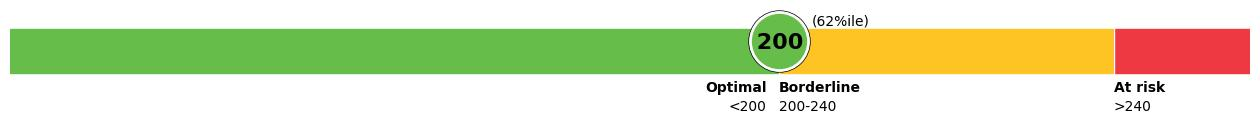
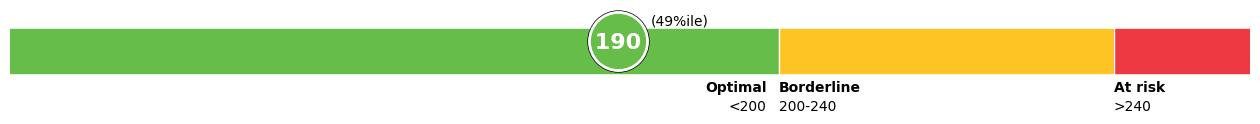
Fix some minor UI changes

Changed region(s): [[0.5881, 0.0726, 0.7119, 0.6048], [0.4643, 0.0726, 0.5571, 0.5806]]

diff --git a/Home.py b/Home.py
@@ -149,34 +149,34 @@ MCQ_FILE = os.path.join(DATA_DIR, 'P_MCQ.XPT')
 SAHC_FILE = os.path.join(SAHC_DATA_DIR, 'merged_data_noPID.csv')
 
 UNITS_MAP = {
-    'LBDHDD': "mg/dL", 'LBDLDL': "mg/dL", 'LBXTC': "mg/dL", 'LBXTR': "mg/dL", 'LBXGH': "%",
-    'LBXGLU': "mg/dL", 'BPXOSY1': "mmHg", 'BPXODI1': "mmHg", 'LBXHGB': "g/dL", 'TotHDLRat': "", 'BMXBMI': ""
+    'LBDHDD': "mg/dl", 'LBDLDL': "mg/dl", 'LBXTC': "mg/dl", 'LBXTR': "mg/dl", 'LBXGH': "%",
+    'LBXGLU': "mg/dl", 'BPXOSY1': "mmHg", 'BPXODI1': "mmHg", 'LBXHGB': "g/dl", 'TotHDLRat': "", 'BMXBMI': ""
 }
 
 
 NAME_MAP = {
     'LBXTC': 'Total Cholesterol', 'LBDLDL': 'LDL', 'LBDHDD': 'HDL', 
-    'LBXTR': 'Triglycerides', 'TotHDLRat': 'Total Cholesterol to HDL Ratio', 
+    'LBXTR': 'Triglycerides', 'TotHDLRat': 'Total Cholesterol to HDL ratio', 
     'LBXGLU': 'Fasting Glucose', 'LBXGH': 'HbA1c',
     'BMXBMI': 'Body Mass Index', 'BPXOSY1': 'Systolic Blood Pressure', 'BPXODI1': 'Diastolic Blood Pressure', 
 }
 
 DROPDOWN_SELECTION = {
     'Total Cholesterol': 'LBXTC', 'LDL': 'LBDLDL', 'HDL': 'LBDHDD',
-    'Triglycerides': 'LBXTR', 'Total Cholesterol to HDL Ratio': 'TotHDLRat',
+    'Triglycerides': 'LBXTR', 'Total Cholesterol to HDL ratio': 'TotHDLRat',
     'Fasting Glucose': 'LBXGLU', 'HbA1c': 'LBXGH',
     'Body Mass Index': 'BMXBMI', 'Systolic Blood Pressure': 'BPXOSY1', 'Diastolic Blood Pressure': 'BPXODI1', 
 }
 
 AHA_RANGES = {
-    'Triglycerides (mg/dL)': ("Optimal", 150, "Borderline", 200, "At risk", None, None),
-    'HDL (mg/dL)': ("At risk", 40, "Optimal", None, None, None, None),
-    'LDL (mg/dL)': ("Optimal", 100, "Borderline", 160, "At risk", None, None),
-    'Total Cholesterol (mg/dL)': ("Optimal", 200, "Borderline", 240, "At risk", None, None),
-    'Fasting Glucose (mg/dL)': ("Optimal", 100, "Borderline", 125, "At risk", None, None),
+    'Triglycerides (mg/dl)': ("Optimal", 150, "Borderline", 200, "At risk", None, None),
+    'HDL (mg/dl)': ("At risk", 40, "Optimal", None, None, None, None),
+    'LDL (mg/dl)': ("Optimal", 100, "Borderline", 160, "At risk", None, None),
+    'Total Cholesterol (mg/dl)': ("Optimal", 200, "Borderline", 240, "At risk", None, None),
+    'Fasting Glucose (mg/dl)': ("Optimal", 100, "Borderline", 125, "At risk", None, None),
     'Systolic Blood Pressure (mmHg)': ("Optimal", 120, "At risk", None, None, None, None),
     'Diastolic Blood Pressure (mmHg)': ("Optimal", 80, "At risk", None, None, None, None),
-    'Total Cholesterol to HDL Ratio ()': ("Optimal", 3.5, "Borderline", 5, "At risk", None, None),
+    'Total Cholesterol to HDL ratio ()': ("Optimal", 3.5, "Borderline", 5, "At risk", None, None),
     'HbA1c (%)': ("Optimal", 5.7, "Borderline", 6.4, "At risk", None, None),
     'Body Mass Index': ("Low", 18.5, "Optimal", 25, "Borderline", 30, "At risk")
 }
@@ -291,7 +291,7 @@ with st.expander(st.session_state.title_expander or expand_label, expanded=True)
         ethnicity = st.selectbox('Ethnicity', ['Non-South Asian', 'South Asian'], key="selected_ethnicity", on_change=update_title, index=None)
     with col4:
         med_options = ['None', 'Cholesterol', 'Diabetes', 'Blood Pressure']
-        medications_select = st.multiselect(label="Select your medication use", options=med_options, key="selected_meds", on_change=update_title)
+        medications_select = st.multiselect(label="Medications controlling", options=med_options, key="selected_meds", on_change=update_title)
 
         medChol = 'No'
         medDiab = 'No'
@@ -531,7 +531,7 @@ def popup(acro, column, user_input, gender, race, age_range, med, on_med, prob, 
             person_label = f"({race} {gender.lower()}, aged between {age_range} years, NOT ON {med}-lowering medication)"
 
     st.write(f"""
-            **Your {column} value compared to others in your peer group**
+            **Your {column} compared to others in your peer group**
             <br>
             {person_label}
             """, unsafe_allow_html=True)
@@ -542,7 +542,7 @@ def popup(acro, column, user_input, gender, race, age_range, med, on_med, prob, 
         <br>
         Risk classification: {status}**
         """, unsafe_allow_html=True)
-    st.write(f"{prop:.0f}% of individuals in your peer group have {column} ≤ {user_input:.1f}")
+    st.write(f"**{prop:.0f}%** of individuals in your peer group have {column} < {user_input:.1f}")
 
     if STEP_SIZE[acro] == 0.1:
         data = pd.DataFrame({
@@ -583,27 +583,27 @@ def popup(acro, column, user_input, gender, race, age_range, med, on_med, prob, 
     st.markdown(html, unsafe_allow_html=True)
 
 
-    if 'Total Cholesterol to HDL' in column or 'Body Mass' in column:
+    if 'Body Mass' in column:
         st.write(f"""
-        According to the AHA guidelines, the **optimal** value for {column} is **{low_number} - {high_number}**.
+        According to AHA guidelines, the **optimal** value for {column} is **{low_number} - {high_number}**.
         <br>
-        In your peer group, the estimated probability of having a sub-optimal {column} of < {low_number} or > {high_number} is {prob:.0f}%.
+        In your peer group, the estimated probability of having a sub-optimal {column} of < {low_number} or > {high_number} is **{prob:.0f}%.**
         """, unsafe_allow_html=True)
-    elif 'HDL' in column:
+    elif 'HDL (mg/dl)' in column:
         st.write(f"""
-            According to the AHA guidelines, the **optimal** value for {column} is ≥ **{low_number}**.
+            According to AHA guidelines, the **optimal** value for {column} is ≥ **{low_number}**.
             <br>
-            In your peer group, the estimated probability of having a sub-optimal {column} of < {low_number} is {prob:.0f}%.
+            In your peer group, the estimated probability of having a sub-optimal {column} of < {low_number} is **{prob:.0f}%.**
             """, unsafe_allow_html=True)
     else:
         st.write(f"""
-            According to the AHA guidelines, the **optimal** value for {column} is ≤ **{low_number}**.
+            According to AHA guidelines, the **optimal** value for {column} is ≤ **{low_number}**.
             <br>
-            <span style='margin:0px !important;'>In your peer group, the estimated probability of having a sub-optimal {column} of > {low_number} is {prob:.0f}%
+            In your peer group, the estimated probability of having a sub-optimal {column} of > {low_number} is **{prob:.0f}%.**
             """, unsafe_allow_html=True)
     
     if status != 'Optimal':
-        st.write("Please check our guidance on next steps to lower the risk posed by this marker at the end of your report.")
+        st.markdown('To understand your cardio-metabolic risk profile further, and to receive personalized guidance to improve lifestyle behaviors such as diet, exercise, sleep, stress management and more, <a href="https://www.elcaminohealth.org/community/lifestyle-consult">schedule</a> a 60 minute lifestyle medicine consult with El Camino Health.', unsafe_allow_html=True)
     else:
         "Your marker is in optimal range. Continue working on your lifestyle behaviors to keep this marker in range."
 
@@ -647,10 +647,10 @@ def show_analysis(df):
     # col_empty1, col_dropdown, col_empty, col_input, col_input2, col_empty = st.columns([0.001, 0.234, 0.115, 0.2, 0.2, 0.25], gap='medium', vertical_alignment='center')
     with analysis:
 
-        col_dropdown, col_empty, col_input, col_empty2, col_input2, col_empty3 = st.columns([.25, .05, .2, .1, .2, .4], vertical_alignment='top')
+        col_dropdown, col_empty, col_input, col_empty2, col_input2, col_empty3 = st.columns([.2, .1, .2, .1, .2, .4], vertical_alignment='top')
 
         with col_dropdown:
-            metric = st.selectbox('My Risk Profile Markers: Select one', list(DROPDOWN_SELECTION.keys()))
+            metric = st.selectbox('My Risk Profile Markers', list(DROPDOWN_SELECTION.keys()))
         
         column = DROPDOWN_SELECTION[metric]
 
@@ -753,7 +753,7 @@ def show_analysis(df):
                     else:
                         st.write(f"No AHA prescribed range available for {columnName}.")
                         continue
-                    if columnName == 'HDL (mg/dL)' and gender == 'Female':
+                    if columnName == 'HDL (mg/dl)' and gender == 'Female':
                         AHA_RANGES[columnName][1] = 50
 
                     sorted_array = np.sort(array)
@@ -794,7 +794,7 @@ def show_analysis(df):
                         borderline = orange
                         at_risk = red
 
-                    # if columnName != 'HDL (mg/dL)':
+                    # if columnName != 'HDL (mg/dl)':
                     #     ax.add_patch(Rectangle((0, 0.6), 
                     #                     low_percentile, 0.35, 
                     #                     color=optimal, fill=True, zorder=90))
@@ -814,7 +814,7 @@ def show_analysis(df):
                     #                     (100 - high_percentile), 0.35, 
                     #                     color=at_risk, fill=True, zorder=90))
 
-                    if columnName == 'HDL (mg/dL)':
+                    if columnName == 'HDL (mg/dl)':
                         ax.add_patch(Rectangle((0, 0.6), 
                                         low_percentile, 0.35, 
                                         color=at_risk, fill=True, zorder=90))
@@ -854,7 +854,7 @@ def show_analysis(df):
 
                     scatter_size = 1750
 
-                    if columnName == 'HDL (mg/dL)':
+                    if columnName == 'HDL (mg/dl)':
                         if user_percentile < low_percentile:
                             header_color = at_risk
                             status = 'At risk'
@@ -909,12 +909,17 @@ def show_analysis(df):
 
                     # ax.set_title(columnName)
 
+                    if status == 'Borderline':
+                        text_color = 'black'
+                    else:
+                        text_color = 'white'
+
                     if STEP_SIZE[column] == .1 or column == 'BMXBMI':
                         ax.annotate(f'{user_input: .1f}', xy=(user_percentile, 0.865), xytext=(user_percentile - 0.25, 0.79),
-                                    horizontalalignment='center', color = 'black', zorder=1001, weight='bold', fontsize=16)
+                                    horizontalalignment='center', color = text_color, zorder=1001, weight='bold', fontsize=16)
                     else:
                         ax.annotate(f'{user_input: .0f}', xy=(user_percentile, 0.865), xytext=(user_percentile - 0.25, 0.79),
-                                    horizontalalignment='center', color = 'black', zorder=1001, weight='bold', fontsize=16)
+                                    horizontalalignment='center', color = text_color, zorder=1001, weight='bold', fontsize=16)
                     
                     if int(user_percentile) == 100:
                         user_percentile = 99
@@ -1085,7 +1090,7 @@ def show_analysis(df):
                     # st.caption(' Press for more info')
 
                 if more_info:
-                        if "HDL (mg/dL)" in columnName or "DL" in columnName or "Trig" in columnName or "Chol" in columnName:
+                        if "HDL (mg/dl)" in columnName or "DL" in columnName or "Trig" in columnName or "Chol" in columnName:
                             popup(column, popup_column, user_input, gender, ethnicity, age_group, "cholesterol", medChol, prob, 
                                 percentile_25, percentile_50, percentile_75, percentile_90, low_number, high_number, status, df, value, prop)
                         elif "Glucose" in columnName or "A1C" in columnName:
